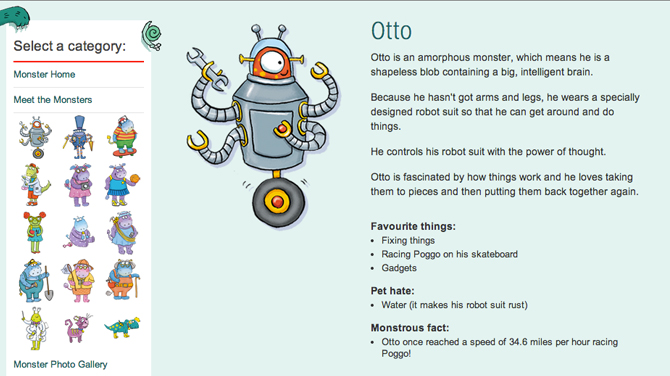
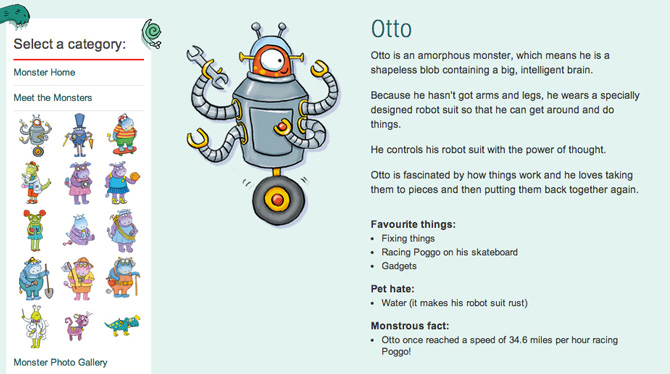
showcase ind.page data and tidy design

diff --git a/app/styles/pageSpecific.scss b/app/styles/pageSpecific.scss
@@ -342,12 +342,14 @@ showcase individual page
   #containerMiddle {
 
   	.row > .row {
+  		h4 {
+  			margin-bottom:30px;
+  		}
   		&.topHeading {
   			> .col-md-12 {
   				padding-bottom:0;
   			}
   			h2 {
-
   				> span span.date {
   					float:right;
 						font-size: 13px;
@@ -356,45 +358,16 @@ showcase individual page
   				}
   			}
   		}
-
-  	}
-/*
-  	.row > .row {
-  		margin-bottom:70px;
-  		&.topHeading,
-  		&.imgWrap,
-  		&:last-child {
-  			margin-bottom:0;
+  		&.row-btn-lg {
+  			background:$colorWhite;
+  			.col-md-12 {
+  				padding-bottom:0;
+  			}
+  		}
+  		.col-md-12.deliver {
+  			background:#ECF9FF;
   		}
   	}
-		
-		.row > .row.topHeading {	
-		  margin-bottom:10px;
-
-		  .col-md-10,
-		  .col-md-2 {
-		  	background:$colorWhite2;
-		  }
-
-			h2 {
-				padding:5px;
-				color:$colorBlack;
-			}
-			div.date {
-				float:right;
-				padding:5px;
-				text-align:right;
-				margin:19px 0;
-				padding:5px 10px;
-				font-size:11px;
-				color:#999;
-			}
-		}
-		.row .col-md-12 h4 {
-			background:$colorWhite2;
-			color:$colorBlack;
-		}
-		*/
 		.imgWrap .col-md-12 {
 			img {
 				display:block;
@@ -420,14 +393,13 @@ showcase individual page
 			}
 			.story {
 				padding-bottom:25px;
+				background:$colorWhite;
 				img {
+					clear:both;
 					display:block;
-					
+					width:auto;
 					max-width:700px;
 					margin:30px auto 60px auto;
-					&:first-child {
-						/*margin-top:30px;*/
-					}
 					&:last-child {
 						margin-bottom:30px;
 					}

diff --git a/app/views/showcase-individual.html b/app/views/showcase-individual.html
@@ -50,12 +50,11 @@
           </div>
         </div>
       </div>
-      <hr/>
       <div class="row row-btn-lg">
         <div class="col-md-12">
           <div class="col-md-12">
             <div class="buttons">
-              <a ng-if="project.liveUrl != undefined" href="{{project.liveUrl}}" class="btn btn-lg btn-blue-light" target="_blank">Visit the live website</a>
+              <a ng-if="project.liveUrl != undefined" href="{{project.liveUrl}}" class="btn btn-lg btn-blue-lightest" target="_blank">Visit the live website</a>
               <a href="#/showcase/" class="btn btn-lg btn-blue-light">Back to showcase</a>
             </div>
           </div>

diff --git a/app/styles/media-queries.scss b/app/styles/media-queries.scss
@@ -304,6 +304,16 @@ responsive
 					display:none;
 				}
 			}
+			> .row.imgWrap > .col-md-12 {
+				padding-bottom:30px;
+			}
+			> .row .deliver .col-md-12:last-child {
+				padding-bottom:0;
+			}
+			> .story img {
+				width:auto;
+				max-width:100%;
+			}
 		}
 	}
 
